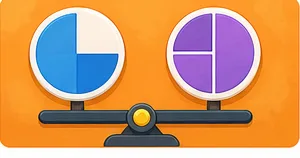
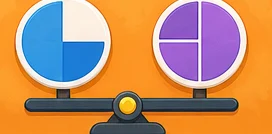
Refine game cover framing and focus

diff --git a/src/styles/brain-training.css b/src/styles/brain-training.css
@@ -40,21 +40,25 @@
 .brain-game-library header span { display: inline-block; margin-top: 5px; padding: 3px 8px; border-radius: 99px; color: #7059c7; background: #eee9f8; font-size: 10px; font-weight: 850; }
 .brain-game-library header > strong { display: grid; width: 40px; height: 40px; place-items: center; border-radius: 12px; color: #7059c7; background: #f0ecf8; }
 .brain-game-library section > div { display: grid; grid-template-columns: repeat(3, 1fr); gap: 10px; }
-.brain-game-library section > div button { display: grid; grid-template-columns: 112px 1fr; gap: 14px; min-height: 108px; align-items: center; padding: 12px; overflow: hidden; border: 0; border-radius: 19px; color: #252842; background: #f5f2f9; box-shadow: inset 0 0 0 1px rgba(93,76,151,.06); text-align: left; cursor: pointer; }
+.brain-game-library section > div button { display: grid; grid-template-rows: auto 1fr; gap: 9px; min-width: 0; min-height: 196px; padding: 10px; overflow: hidden; border: 0; border-radius: 20px; color: #252842; background: #f5f2f9; box-shadow: inset 0 0 0 1px rgba(93,76,151,.08), 0 10px 24px rgba(64,48,116,.07); text-align: left; cursor: pointer; }
 .brain-game-library section > div button.priority-game { outline: 2px solid #e0ad56; outline-offset: -2px; background: #fff8e9; }
 .brain-game-library .priority-game small { color: #9b6821; font-weight: 850; }
-.brain-game-library section > div button > span { position: relative; display: grid; width: 112px; height: 62px; place-items: center; overflow: hidden; border-radius: 14px; color: #fff; background-color: #7059c7; box-shadow: 0 10px 22px rgba(69,49,139,.2); }
+.brain-game-library section > div button > span { position: relative; display: block; width: 100%; aspect-ratio: 1.9; overflow: hidden; border: 3px solid #7059c7; border-radius: 15px; color: #fff; background-color: #7059c7; box-shadow: 0 10px 22px rgba(69,49,139,.16); }
 .game-cover b { position: relative; z-index: 2; font-size: 25px; font-weight: 950; text-shadow: 0 3px 10px rgba(34,22,73,.22); }
 .game-cover i { position: absolute; width: 54px; height: 54px; right: -18px; top: -15px; border-radius: 50%; background: rgba(255,255,255,.2); }
 .game-cover i:nth-child(2) { width: 36px; height: 36px; right: auto; top: auto; bottom: -12px; left: -9px; background: rgba(255,255,255,.14); }
-.game-card-copy { display: grid; min-width: 0; gap: 5px; }
-.game-card-copy > strong { font-size: 15px; line-height: 1.25; }
+.game-card-copy { display: grid; min-width: 0; gap: 5px; padding: 2px 4px 4px; }
+.game-card-copy > strong { font-size: 16px; line-height: 1.25; }
 .game-card-copy small { min-height: 26px; line-height: 1.3; }
 .game-card-copy em { color: #7059c7; font-size: 10px; font-style: normal; font-weight: 850; }
 .brain-game-library section:nth-child(2) button > span { background: #e17a5f; }
 .brain-game-library section:nth-child(3) button > span { background: #438ec4; }
 .brain-game-library section:nth-child(4) button > span { background: #8a65c7; }
 .brain-game-library section:nth-child(5) button > span { background: #d08a38; }
+.brain-game-library section:nth-child(2) .game-cover { border-color: #d96e55; }
+.brain-game-library section:nth-child(3) .game-cover { border-color: #438ec4; }
+.brain-game-library section:nth-child(4) .game-cover { border-color: #8a65c7; }
+.brain-game-library section:nth-child(5) .game-cover { border-color: #d08a38; }
 .brain-game-library button small { color: #7d8198; }
 .brain-game-back { margin-top: 28px; padding: 9px 0; border: 0; color: #7059c7; background: transparent; font-weight: 850; cursor: pointer; }
 .pattern-grid { display: grid; grid-template-columns: repeat(5, 1fr); gap: 9px; width: min(430px, 100%); margin: 30px auto 0; }
@@ -177,10 +181,10 @@ html[data-theme="dark"] .training-result > .new-record { color: #ffe6ad; backgro
   .brain-assessment fieldset button span { display: inline; margin-right: 8px; }
   .brain-game-library section > div { grid-template-columns: 1fr; }
   .brain-game-library > section { padding: 17px; }
-  .brain-game-library section > div button { grid-template-columns: 88px 1fr; min-height: 94px; padding: 9px; }
-  .brain-game-library section > div button > span { width: 88px; height: 49px; border-radius: 11px; }
-  .game-card-copy { gap: 3px; }
-  .game-card-copy > strong { font-size: 13px; }
+  .brain-game-library section > div button { min-height: 176px; padding: 8px; }
+  .brain-game-library section > div button > span { width: 100%; border-width: 2px; border-radius: 12px; }
+  .game-card-copy { gap: 3px; padding-inline: 3px; }
+  .game-card-copy > strong { font-size: 14px; }
   .game-card-copy small { min-height: 0; font-size: 9px; }
   .game-card-copy em { font-size: 9px; }
   .number-duel button { min-width: 0; width: 50%; }

diff --git a/src/styles/brain-game-preview.css b/src/styles/brain-game-preview.css
@@ -17,6 +17,7 @@
   margin: 0 auto 24px;
   place-items: center;
   overflow: hidden;
+  border: 6px solid #7059c7;
   border-radius: 26px;
   color: #fff;
   background: linear-gradient(145deg, #8068dc, #5f48bc);
@@ -26,6 +27,10 @@
 .category-memory .preview-game-cover { background: linear-gradient(145deg, #5ca8d8, #347bac); }
 .category-logic .preview-game-cover { background: linear-gradient(145deg, #a77ae0, #7651b0); }
 .category-math .preview-game-cover { background: linear-gradient(145deg, #e6a34e, #bb702b); }
+.category-speed .preview-game-cover { border-color: #d96e55; }
+.category-memory .preview-game-cover { border-color: #438ec4; }
+.category-logic .preview-game-cover { border-color: #8a65c7; }
+.category-math .preview-game-cover { border-color: #d08a38; }
 .preview-game-cover strong { position: relative; z-index: 2; font-size: 42px; }
 .preview-game-cover i { position: absolute; width: 92px; height: 92px; right: -28px; top: -25px; border-radius: 50%; background: rgba(255,255,255,.18); }
 .preview-game-cover i:nth-child(2) { width: 58px; height: 58px; inset: auto auto -19px -15px; }
@@ -64,8 +69,8 @@ html[data-theme="dark"] .game-preview-stats dd { color: #c6b9ff; }
   }
   .brain-game-library section > div::-webkit-scrollbar { display: none; }
   .brain-game-library section > div button {
-    width: min(70vw, 260px);
-    flex: 0 0 min(70vw, 260px);
+    width: min(64vw, 235px);
+    flex: 0 0 min(64vw, 235px);
     scroll-snap-align: start;
     scroll-snap-stop: always;
   }
